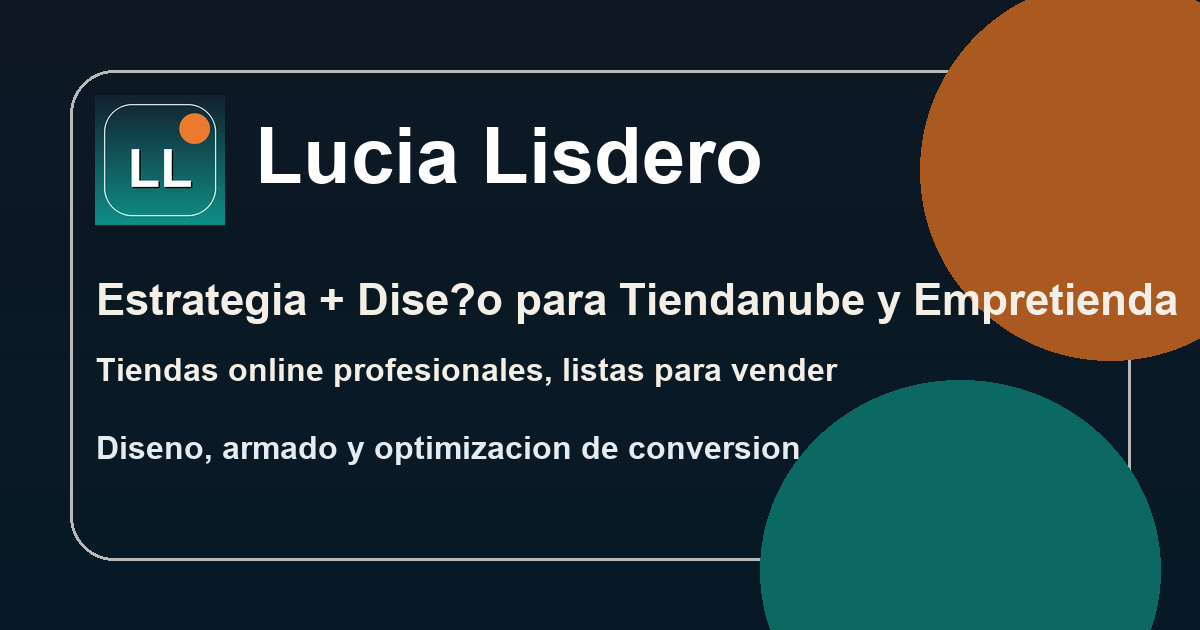
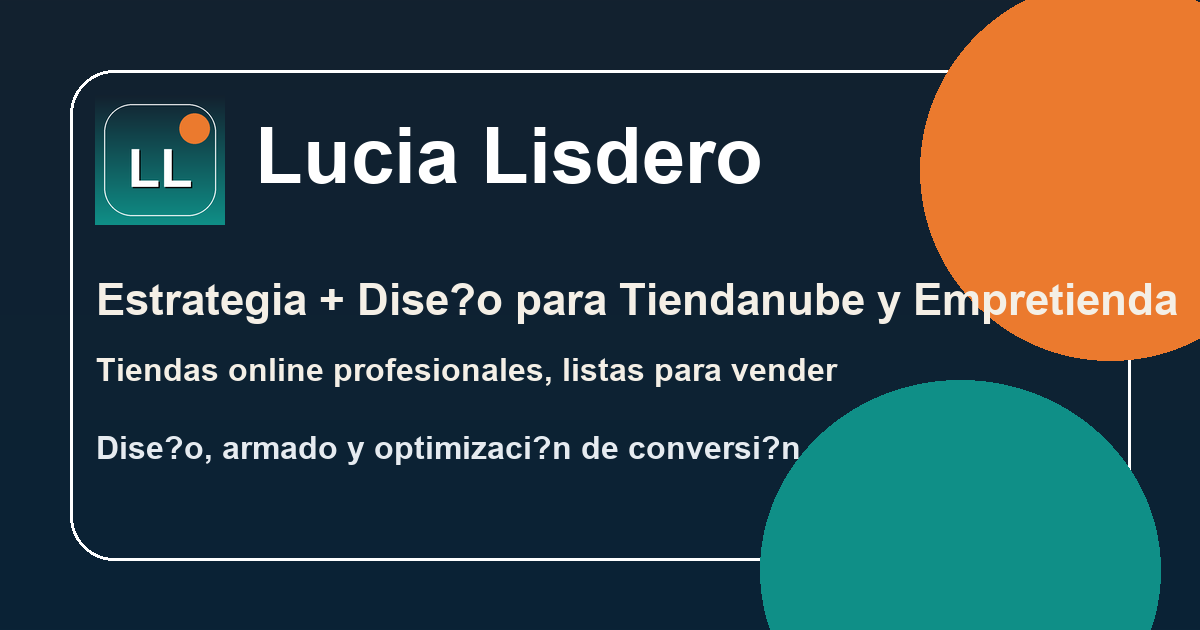
Fix OG text encoding and bust preview cache

diff --git a/index.html b/index.html
@@ -11,13 +11,13 @@
   <meta property="og:title" content="Lucia Lisdero | Tiendanube + Empretienda">
   <meta property="og:description" content="Diseño y armado de tiendas online con foco en conversion.">
   <meta property="og:url" content="https://lulisderoo20.github.io/TiendaNubeEmprendetienda/">
-  <meta property="og:image" content="https://lulisderoo20.github.io/TiendaNubeEmprendetienda/assets/brand/og-cover.png">
+  <meta property="og:image" content="https://lulisderoo20.github.io/TiendaNubeEmprendetienda/assets/brand/og-cover.png?v=2">
   <meta property="og:image:width" content="1200">
   <meta property="og:image:height" content="630">
   <meta name="twitter:card" content="summary_large_image">
   <meta name="twitter:title" content="Lucia Lisdero | Tiendanube + Empretienda">
   <meta name="twitter:description" content="Diseño y armado de tiendas online con foco en conversion.">
-  <meta name="twitter:image" content="https://lulisderoo20.github.io/TiendaNubeEmprendetienda/assets/brand/og-cover.png">
+  <meta name="twitter:image" content="https://lulisderoo20.github.io/TiendaNubeEmprendetienda/assets/brand/og-cover.png?v=2">
   <link rel="icon" href="assets/brand/favicon.ico" sizes="any">
   <link rel="icon" type="image/png" sizes="32x32" href="assets/brand/favicon-32.png">
   <link rel="icon" type="image/png" sizes="16x16" href="assets/brand/favicon-16.png">
